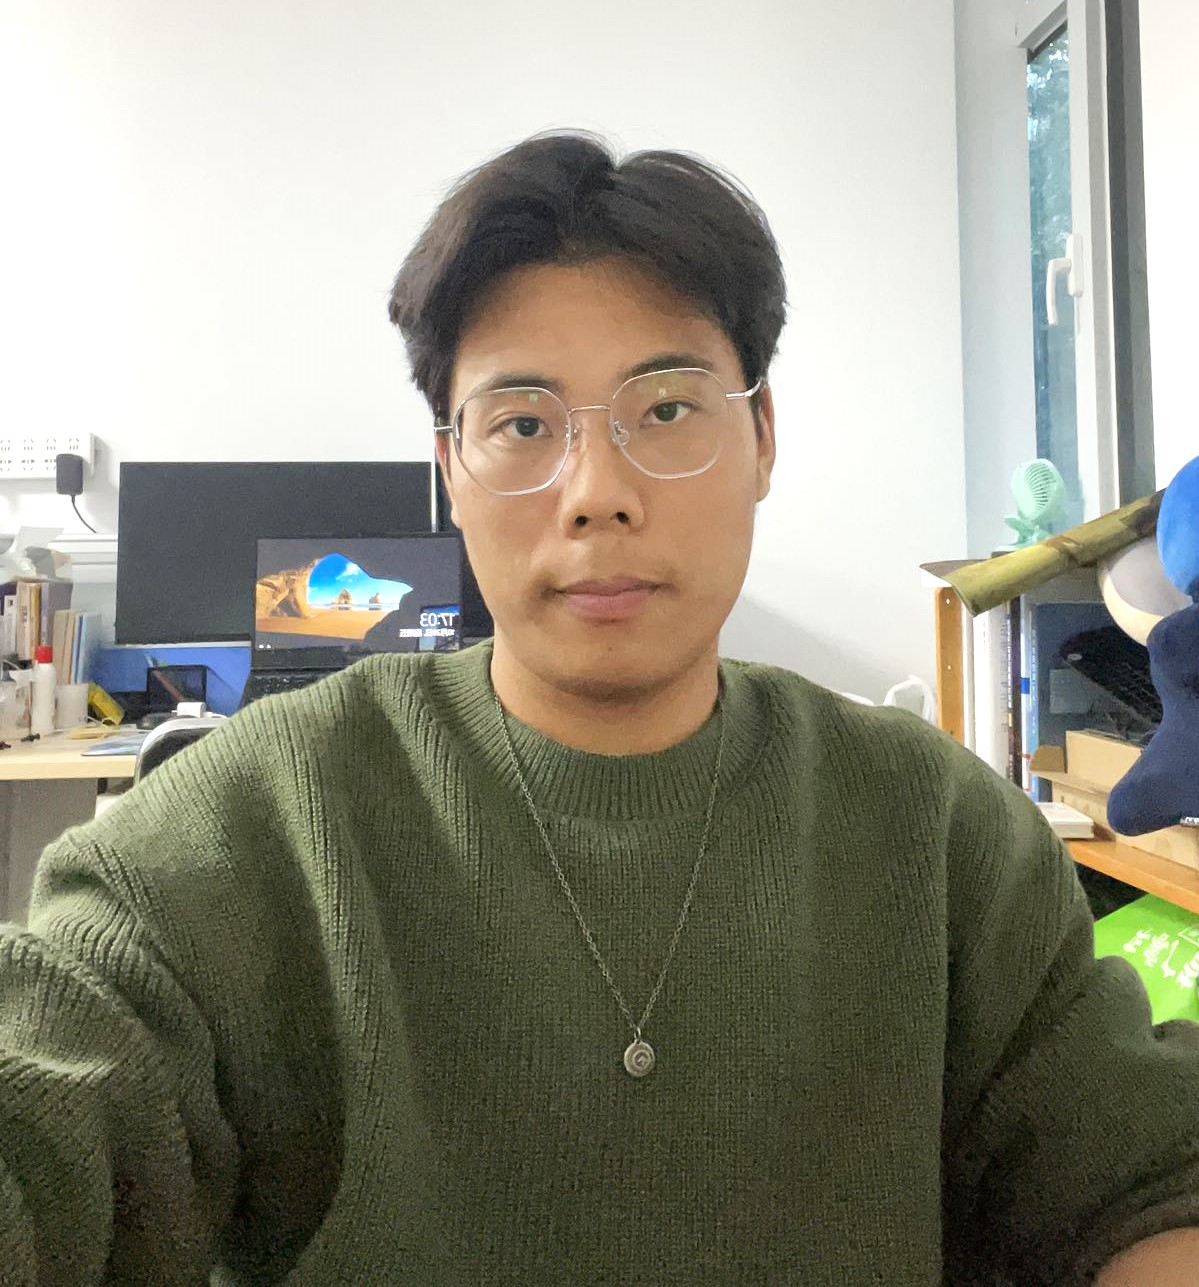
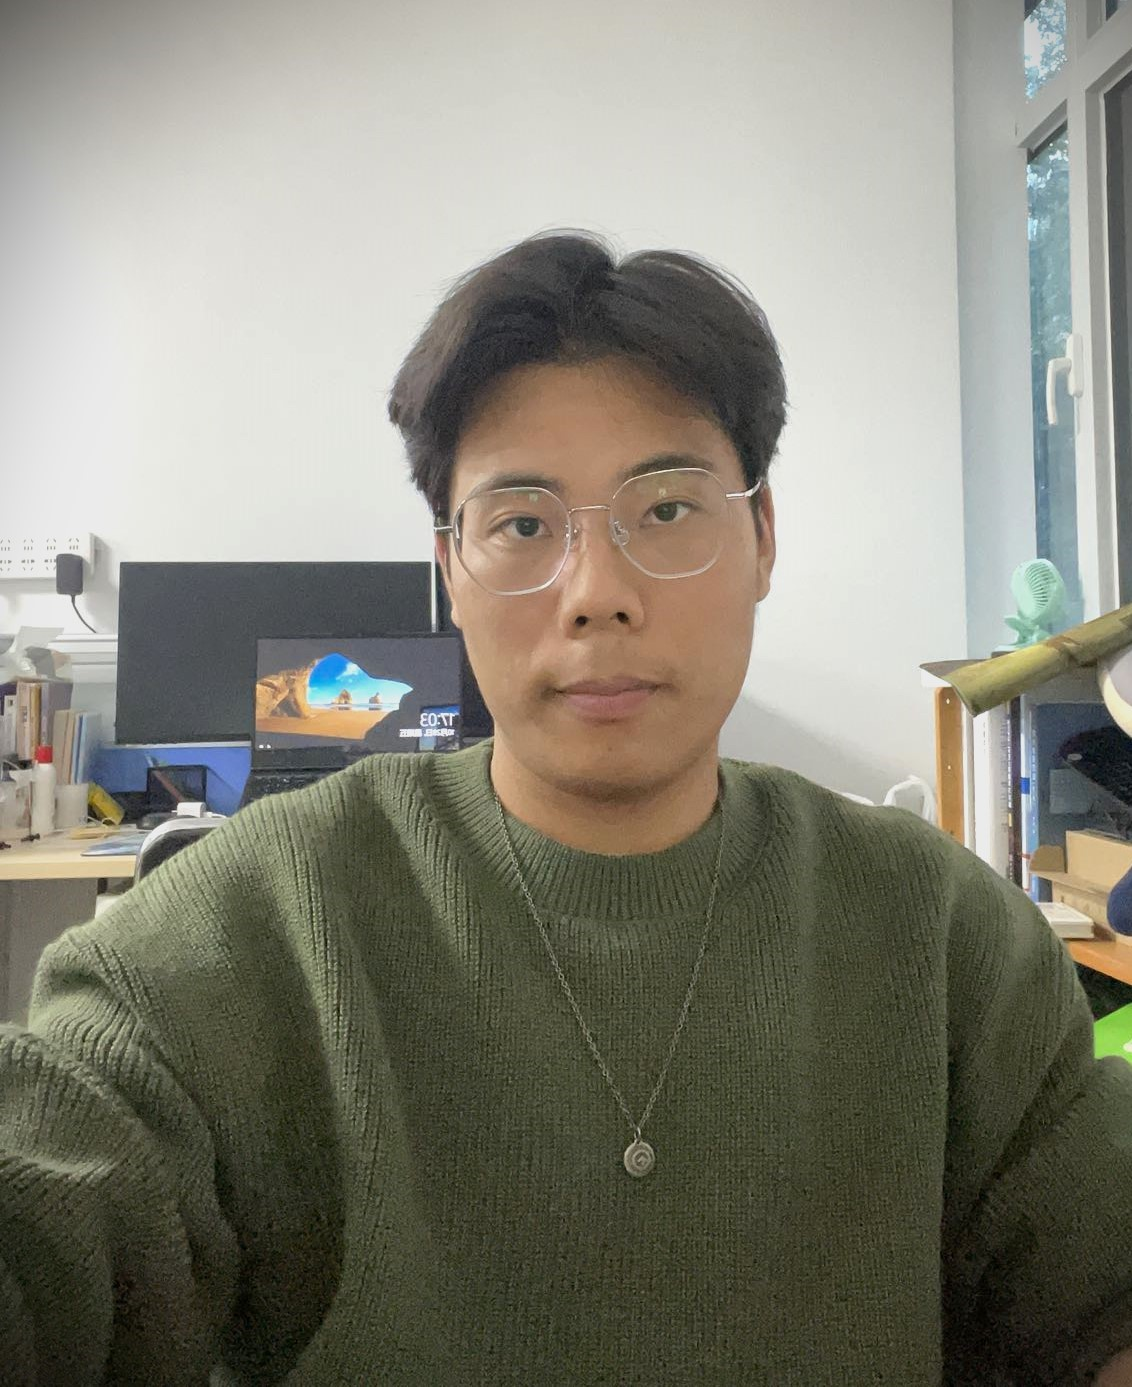
update

diff --git a/index.html b/index.html
@@ -35,9 +35,9 @@
         <font id="email" style="display:inline;">rui.hu (at) bjtu (dot) edu (dot) cn</font>
       </p>
 
-      <td width="40%" valign="top">
+      <td width="30%" valign="right">
         <a href="images/profile1.jpg">
-          <img src="images/profile1.jpg" width="95%" />
+          <img src="images/profile1.jpg" width="85%" />
         </a>
       </td>
       <td width="60%" valign="top" align="justify">
